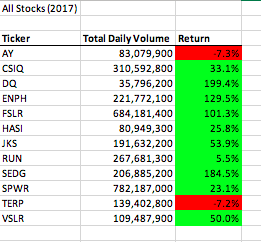
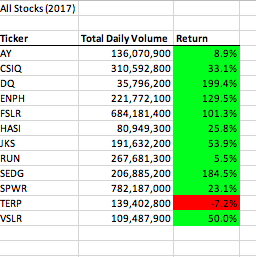
updated whole challenge

diff --git a/README.md b/README.md
@@ -11,7 +11,7 @@ The goal of this project was to help Steve come up with a financial stock plan t
 -In 2017, the 12 stocks we were doing data on did quite well. 
 ![2017stock](Additional_pics/2017stock.png)
 
--As you can see, 10 of the 12 stocks had a profitable year. This is a great sign if you are interested in this field of stocks.
+-As you can see, 11 of the 12 stocks had a profitable year. This is a great sign if you are interested in this field of stocks.
 
 
 -Unfortunately, the momentum of these stocks from 2017 went the opposite way in 2018.
@@ -20,7 +20,7 @@ The goal of this project was to help Steve come up with a financial stock plan t
 
 -In this year, 10 of the 12 stocks had negative returns. As great as 2017 was in this field, 2018 had the opposite outcome.
 
--The only two stocks to have profitable returns in both years were ENPH and RUN.
+-The only 2 stocks to have a profitable return in both years were RUN and ENPH.
 
 ### Execution Times
 - When we refactored our data, the code ran significantly faster for both years. As you can see in the pictures below, the refactored code ran in under a second, and the non refactored code ran in about 4.5 seconds.
